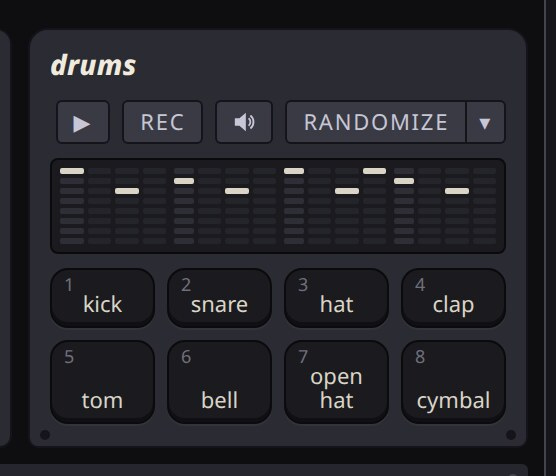
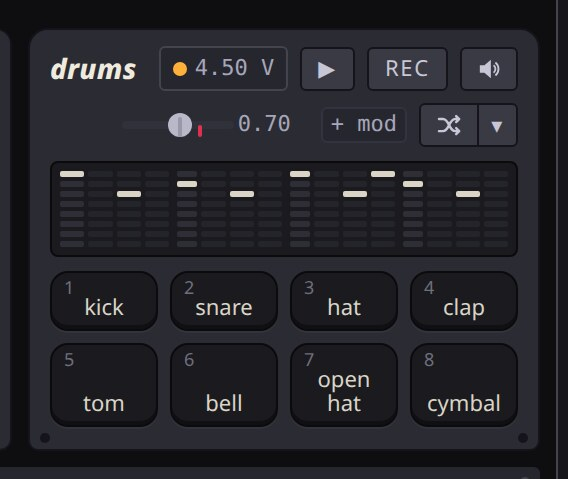
feat(ui): fit the instrument decks on fewer rows
- The switches flow in the deck's own row beside the badge, so at 1400px
  the toy keyboard's deck takes one row (was three) and the drums two
  (was four)
- Every keybed uses the ◂ C3 ▸ octave stepper, which short boards had
- The default roll cap shows a shuffle mark; other roll kinds keep
  their names
- Mute sits ahead of the level slider, which narrows to 3.5rem
- The decal hides below a 680px case, the lamp shrinks to six characters

diff --git a/src/ui/Keybed.tsx b/src/ui/Keybed.tsx
@@ -308,10 +308,9 @@ export function Keybed({
   // No pointer-up follows any of them, so this is the last word on the note.
   const cancel = (note: number) => () => release(note)
 
-  // The octave switch on a deck with no room for five caps: one step at a time,
-  // with the note the bottom key plays standing in for the cap that would have
-  // been lit. A cap that is already the end of its travel goes dead rather than
-  // disappearing, so the switch keeps the same shape wherever the board stands.
+  // The octave switch steps one octave at a time, with the note the bottom key
+  // plays between its two caps. A cap at the end of its travel goes dead and
+  // stays put, so the switch keeps its shape wherever the board stands.
   const stepper = (delta: number, way: string, mark: string) => (
     <Tip
       text={`move the whole board one octave ${way}${letters ? ` — ${delta < 0 ? octaveLetters.down : octaveLetters.up} does the same` : ''}`}
@@ -376,7 +375,7 @@ export function Keybed({
       aria-label={label}
     >
       <div className={styles.deck}>
-        {badge}
+        <span className={styles.badge}>{badge}</span>
         <div className={styles.switches}>
           {extras}
           <Tip text="Latch keys on — press a held key again to let it go. Alt-click a single key to pin just that one down.">
@@ -391,38 +390,16 @@ export function Keybed({
               hold
             </button>
           </Tip>
-          {short ? (
-            /* The drawer travels with the octave switch on a short deck, so
-               the two wrap together rather than the bars going over alone. */
-            <span className={styles.octaves}>
-              {stepper(-1, 'down', '◂')}
-              <Tip text="where the board is standing: the note its bottom key plays. A short board reaches the rest of the keyboard through the two switches beside it rather than by being all of it at once.">
-                <span className={styles.standing}>{semitoneName(at(0))}</span>
-              </Tip>
-              {stepper(1, 'up', '▸')}
-              {settings}
-            </span>
-          ) : (
-            <>
-              <span className={styles.stamp}>octave</span>
-              <span className={styles.octaves}>
-                {OCTAVES.map(o => (
-                  <Tip
-                    key={o}
-                    text={`move the whole board ${o === 0 ? 'back where the toy has it' : `${Math.abs(o)} octave${Math.abs(o) === 1 ? '' : 's'} ${o < 0 ? 'down' : 'up'}`}${letters ? ` — ${octaveLetters.down} and ${octaveLetters.up} do the same` : ''}`}
-                  >
-                    <button
-                      className={o === octave ? styles.octaveOn : styles.octave}
-                      onClick={() => shiftTo(o)}
-                    >
-                      {o > 0 ? `+${o}` : o}
-                    </button>
-                  </Tip>
-                ))}
-              </span>
-              {settings}
-            </>
-          )}
+          {/* The drawer travels with the octave switch, so the two wrap
+              together. */}
+          <span className={styles.octaves}>
+            {stepper(-1, 'down', '◂')}
+            <Tip text="where the board is standing: the note its bottom key plays. The two switches beside it move the board an octave at a time.">
+              <span className={styles.standing}>{semitoneName(at(0))}</span>
+            </Tip>
+            {stepper(1, 'up', '▸')}
+            {settings}
+          </span>
           {open && (
             <Menu
               anchor={drawer}

diff --git a/src/ui/Keybed.module.css b/src/ui/Keybed.module.css
@@ -21,8 +21,6 @@
   container-type: inline-size;
   --case: #2b2b33;
   --case-edge: #14141a;
-  /* The ink every label on a toy's front panel is printed in. */
-  --stamp: #8c8c9a;
   --bed: #0a0a0d;
   --case-round: 13px 8px 6px 4px;
   --fixing: var(--case-edge);
@@ -78,19 +76,9 @@
    switch that was always how you reached past the drawn keys is how you reach
    the ones it stopped drawing. Fewer keys is also more room between them, so
    the black keys take some of it: a black key is the one a finger has to find
-   between two others.
-
-   The deck goes with it. A row of switches pushed to the speaker end of a case
-   this narrow is a row hanging off the end of it, so the switches start where
-   the badge finishes and wrap when they run out. */
+   between two others. */
 .short {
   --key-b-w: 46%;
-}
-
-.short .switches {
-  flex: 1 1 0;
-  min-width: 0;
-  margin-left: 0;
 }
 
 /* The front panel: badge, decal, switches, speaker. On a toy every one of them
@@ -98,8 +86,9 @@
 .deck {
   display: flex;
   align-items: center;
+  justify-content: flex-end;
   flex-wrap: wrap;
-  gap: 8px;
+  gap: var(--gap-ctl);
   min-height: 22px;
 }
 
@@ -247,21 +236,18 @@
   color: rgba(40, 10, 0, 0.6);
 }
 
-/* Pushed down to the speaker end of the deck, so the badge keeps the left and
-   the switches sit under the hand that reaches past the keys for them. */
-.switches {
+/* The badge keeps the left and the switches flow in the deck's own row, pushed
+   to the speaker end, so they sit under the hand that reaches past the keys
+   and a second row runs under the badge too. */
+.badge {
   display: flex;
   align-items: center;
-  flex-wrap: wrap;
-  gap: var(--gap-ctl);
-  margin-left: auto;
+  gap: 8px;
+  margin-right: auto;
 }
 
-.stamp {
-  font-size: var(--fs-xs);
-  letter-spacing: 0.14em;
-  text-transform: uppercase;
-  color: var(--stamp);
+.switches {
+  display: contents;
 }
 
 .octaves {
@@ -270,10 +256,7 @@
   gap: var(--gap-ctl-sm);
 }
 
-/* Where a stepped board is standing: the note its bottom key plays, in the
-   place the lit cap held on a deck with room for five of them. It is the one
-   thing the caps never said — they named the switch's own travel, and what you
-   want to know with your hands on a short board is which octave is under them. */
+/* Where the board is standing: the note its bottom key plays. */
 .standing {
   min-width: 26px;
   text-align: center;
@@ -294,12 +277,6 @@
 
 .octave {
   composes: cap from './button.module.css';
-  font-variant-numeric: tabular-nums;
-}
-
-.octaveOn {
-  composes: capOn from './button.module.css';
-  font-variant-numeric: tabular-nums;
 }
 
 /* Everything about this keyboard that is not a switch on its front. A toy had

diff --git a/src/ui/DeviceVerbs.tsx b/src/ui/DeviceVerbs.tsx
@@ -63,6 +63,12 @@ const SPEAKER = (muted: boolean) => (
   </svg>
 )
 
+const SHUFFLE = (
+  <svg className={styles.shuffle} viewBox="0 0 12 12" aria-hidden="true">
+    <path d="M1 3h2c3 0 3 6 6 6h2M1 9h2c3 0 3-6 6-6h2M9.5 1.5 11 3 9.5 4.5M9.5 7.5 11 9 9.5 10.5" />
+  </svg>
+)
+
 function Mute({ stage, control }: { stage: string; control: ControlKey }) {
   const muted = useControlValue(control) > 0.5
   const pedal = isPedal(stage)
@@ -95,7 +101,7 @@ function Mute({ stage, control }: { stage: string; control: ControlKey }) {
 
 // The roll cap and the kinds of roll behind its caret. Picking a kind rolls at
 // once and stays on the face, so going again on it is one press, the way the
-// board's dice work.
+// board's dice work. The first kind wears a shuffle mark, and the others their names.
 function Rolls({ group, seconds }: { group: Group; seconds: number }) {
   const kinds = stageRollsFor(group)
   const [held, setHeld] = useState(STAGE_ROLLS[0]!.name)
@@ -118,8 +124,12 @@ function Rolls({ group, seconds }: { group: Group; seconds: number }) {
   return (
     <span className={styles.split} ref={setSplit}>
       <Tip text={`${face.blurb} Leaves the rest of the board alone.`}>
-        <button className={styles.face} onClick={() => roll(face)}>
-          {face.label}
+        <button
+          className={styles.face}
+          aria-label={face.label}
+          onClick={() => roll(face)}
+        >
+          {face === kinds[0] ? SHUFFLE : face.label}
         </button>
       </Tip>
       <Tip
@@ -184,8 +194,8 @@ export function FaceLevel({ control }: { control: ControlKey }) {
   )
 }
 
-// The caps every instrument and pedal on the bench carries: an instrument's
-// level, mute or bypass, roll the stage somewhere new, and put the machine away
+// The caps on every instrument and pedal on the bench: mute or bypass, an
+// instrument's level, roll the stage somewhere new, and put the machine away
 // where it can be put away.
 export function DeviceVerbs({
   stage,
@@ -205,8 +215,8 @@ export function DeviceVerbs({
   const level = LEVEL_OF[stage]
   return (
     <>
-      {level && <FaceLevel control={level} />}
       {mute && !noMute && <Mute stage={stage} control={mute} />}
+      {level && <FaceLevel control={level} />}
       <Rolls group={group} seconds={seconds} />
       {onClose && (
         <Tip text={`Puts ${stage} away. Its sound stays on the board.`}>

diff --git a/src/ui/DrumKit.module.css b/src/ui/DrumKit.module.css
@@ -11,7 +11,7 @@
   --rubber-edge: #0b0b0e;
 
   position: relative;
-  flex: 0 1 250px;
+  flex: 0 1 256px;
   min-width: 220px;
   display: flex;
   flex-direction: column;
@@ -44,12 +44,14 @@
 .deck {
   display: flex;
   align-items: center;
+  justify-content: flex-end;
   flex-wrap: wrap;
-  gap: 8px;
+  gap: var(--gap-ctl);
   min-height: 22px;
 }
 
 .brand {
+  margin-right: auto;
   font-size: var(--fs-md);
   font-weight: 800;
   font-style: italic;
@@ -136,11 +138,7 @@
 }
 
 .switches {
-  display: flex;
-  align-items: center;
-  flex-wrap: wrap;
-  gap: var(--gap-ctl);
-  margin-left: auto;
+  display: contents;
 }
 
 .play {

diff --git a/src/ui/DeviceVerbs.module.css b/src/ui/DeviceVerbs.module.css
@@ -51,6 +51,21 @@
 }
 
 .level > div {
-  grid-template-columns: 0 6rem auto;
+  grid-template-columns: 3.5rem auto;
+  column-gap: var(--space-2xs);
   margin: 0;
+}
+
+.level > div > :first-child {
+  display: none;
+}
+
+.shuffle {
+  width: 1.1em;
+  height: 1.1em;
+  fill: none;
+  stroke: currentColor;
+  stroke-width: 1.2;
+  stroke-linecap: round;
+  stroke-linejoin: round;
 }

diff --git a/src/ui/Keys.module.css b/src/ui/Keys.module.css
@@ -68,13 +68,13 @@
 
 /* A narrow case hides the speaker grille first and then the decal, so the
    switches stay on one line in a narrower case. */
-@container (max-width: 680px) {
+@container (max-width: 760px) {
   .grille {
     display: none;
   }
 }
 
-@container (max-width: 600px) {
+@container (max-width: 680px) {
   .stripe {
     display: none;
   }

diff --git a/src/ui/PcmKeys.module.css b/src/ui/PcmKeys.module.css
@@ -6,7 +6,6 @@
 .case {
   --case: #3a3b40;
   --case-edge: #17181b;
-  --stamp: #9fa2ab;
   --bed: #0b0b0e;
   --case-round: 5px 5px 4px 4px;
   --fixing: #17181b;

diff --git a/src/ui/FmKeys.module.css b/src/ui/FmKeys.module.css
@@ -5,7 +5,6 @@
 .board {
   --case: #1c4a31;
   --case-edge: #0c2517;
-  --stamp: #b9d6c2;
   --bed: #0c2517;
   --case-round: 4px;
   --fixing: #0c2517;

diff --git a/src/ui/MonoKeys.module.css b/src/ui/MonoKeys.module.css
@@ -5,7 +5,6 @@
 .case {
   --case: #141414;
   --case-edge: #050505;
-  --stamp: #c9c4b8;
   --bed: #0a0a0a;
   --case-round: 3px;
   --fixing: #3a2416;

diff --git a/src/ui/RailLamp.module.css b/src/ui/RailLamp.module.css
@@ -21,5 +21,5 @@
   font-family: var(--mono);
   font-size: var(--fs-xs);
   color: var(--fg3);
-  min-width: 3.1rem;
+  min-width: 6ch;
 }
